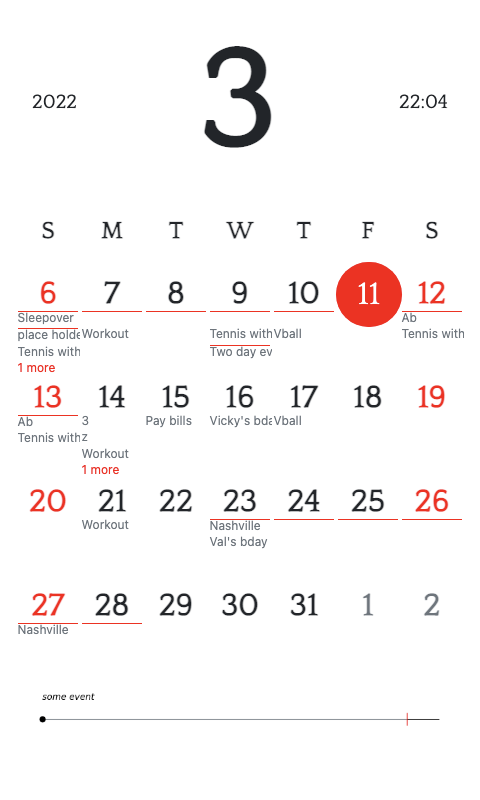
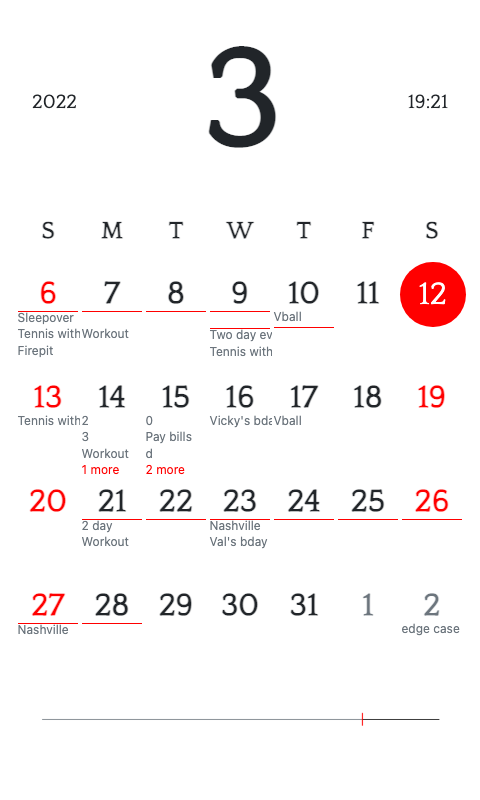
I think I implemented proper event stacking

diff --git a/render/calendar.html b/render/calendar.html
@@ -12,7 +12,7 @@
              style="display:flex;justify-content:space-between;">
             <div class="time-info">2022</div>
             <h3 class="month font-weight-bold mb-0 text-uppercase">3</h3>
-            <div class="time-info">22:04</div>
+            <div class="time-info">19:21</div>
         </div>
         <!-- Days of week -->
         <ol class="day-names list-unstyled text-center"><li class="font-weight-bold text-uppercase">S</li>
@@ -26,9 +26,9 @@
         <!-- Calendar and events -->
         <ol class="days list-unstyled"><li><div class="date" style="color:red;">6</div>
 <div class="event"><p class="multiday">Sleepover</p></div>
-<div class="event"><p class="multiday">place holder</p></div>
 <div class="event"> Tennis with Chloe</div>
-<div class="event" style="color:red;">1 more</li>
+<div class="event"> Firepit</div>
+</li>
 <li><div class="date">7</div>
 <div class="event text-hidden"><p class="multiday">Sleepover</p></div>
 <div class="event">Workout</div>
@@ -38,31 +38,30 @@
 </li>
 <li><div class="date">9</div>
 <div class="event text-hidden"><p class="multiday">Sleepover</p></div>
-<div class="event">Tennis with flake</div>
 <div class="event"><p class="multiday">Two day event</p></div>
+<div class="event">Tennis with flake</div>
 </li>
 <li><div class="date">10</div>
-<div class="event text-hidden"><p class="multiday">Two day event</p></div>
 <div class="event"> Vball</div>
+<div class="event text-hidden"><p class="multiday">Two day event</p></div>
 </li>
-<li><div class="datecircle">11</div>
+<li><div class="date">11</div>
 </li>
-<li><div class="date" style="color:red;">12</div>
-<div class="event"><p class="multiday">Ab</p></div>
-<div class="event"> Tennis with Harrison</div>
+<li><div class="datecircle">12</div>
 </li>
 <li><div class="date" style="color:red;">13</div>
-<div class="event"><p class="multiday">Ab</p></div>
 <div class="event"> Tennis with Isaac</div>
 </li>
 <li><div class="date">14</div>
+<div class="event">2</div>
 <div class="event">3</div>
-<div class="event">z</div>
 <div class="event">Workout</div>
 <div class="event" style="color:red;">1 more</li>
 <li><div class="date">15</div>
+<div class="event">0</div>
 <div class="event">Pay bills</div>
-</li>
+<div class="event">d</div>
+<div class="event" style="color:red;">2 more</li>
 <li><div class="date">16</div>
 <div class="event">Vicky's bday</div>
 </li>
@@ -76,9 +75,11 @@
 <li><div class="date" style="color:red;">20</div>
 </li>
 <li><div class="date">21</div>
+<div class="event"><p class="multiday">2 day</p></div>
 <div class="event">Workout</div>
 </li>
 <li><div class="date">22</div>
+<div class="event text-hidden"><p class="multiday">2 day</p></div>
 </li>
 <li><div class="date">23</div>
 <div class="event"><p class="multiday">Nashville</p></div>
@@ -108,6 +109,7 @@
 <li><div class="date text-muted">1</div>
 </li>
 <li><div class="date text-muted">2</div>
+<div class="event text-muted">edge case</div>
 </li>
 </ol>
         <div style="height:210px;margin-top:-5rem;position:absolute;">

diff --git a/utils/date_parse.py b/utils/date_parse.py
@@ -1,5 +1,4 @@
 import datetime
-import pytz
 
 
 def enumerate_multiday_event(event_list: list) -> list:
@@ -20,7 +19,9 @@ def enumerate_multiday_event(event_list: list) -> list:
                 "endDatetime": event["startDatetime"] + datetime.timedelta(1) - datetime.timedelta(microseconds=1),
                 "isMultiday": True,
                 "isUpdated": event["isUpdated"],
-                "allday": event["allday"]
+                "allday": event["allday"],
+                "duration": duration,
+                "main": True
             }
             enumerated_event_list.append(enumerated_event)
             for date in [event["startDatetime"] + datetime.timedelta(i) for i in range(1, duration.days)]:
@@ -31,7 +32,8 @@ def enumerate_multiday_event(event_list: list) -> list:
                     "isMultiday": True,
                     "isUpdated": event["isUpdated"],
                     "allday": event["allday"],
-                    "hide": True
+                    "hide": True,
+                    "duration": duration
                 }
                 last_date = date
                 enumerated_event_list.append(enumerated_event)
@@ -44,10 +46,12 @@ def enumerate_multiday_event(event_list: list) -> list:
                     "isMultiday": True,
                     "isUpdated": event["isUpdated"],
                     "allday": event["allday"],
-                    "hide": True
+                    "hide": True,
+                    "duration": duration
                 }
                 enumerated_event_list.append(enumerated_event)
         else:
+            event["duration"] = datetime.timedelta(0)
             enumerated_event_list.append(event)
 
     return enumerated_event_list

diff --git a/render/render.py b/render/render.py
@@ -17,6 +17,8 @@ from PIL import Image
 from selenium import webdriver
 from selenium.webdriver.chrome.options import Options
 from render.timeline import Timeline
+from operator import itemgetter
+from utils.block_list import BlockList
 
 
 class RenderHelper:
@@ -183,7 +185,27 @@ class RenderHelper:
                                    str(dayOfMonth) + '</div>\n'
 
             for j in range(min(len(calList[i]), maxEventsPerDay)):
+
+                calList[i] = sorted(calList[i], key=itemgetter("summary"))
+                calList[i] = sorted(calList[i], key=itemgetter("startDatetime"))
+                calList[i] = sorted(calList[i], key=itemgetter("allday", "duration"), reverse=True)
+
+                bl = BlockList(len(calList[i]))
+                event_summaries = [e["summary"] for e in calList[i - 1]]
+                for idx, event in enumerate(calList[i]):
+                    if event["summary"] in event_summaries and event["isMultiday"]:
+                        lane = event_summaries.index(event["summary"])
+                        bl.hold_index(lane, event)
+                        calList[i].pop(idx)
+
+                for e in calList[i]:
+                    bl.fill(e)
+
+                calList[i] = bl.to_list()
+
                 event = calList[i][j]
+
+
                 cal_events_text += '<div class="event'
                 if event['isUpdated']:
                     cal_events_text += ' text-danger'

diff --git a/maginkcal.py b/maginkcal.py
@@ -91,6 +91,7 @@ def main():
             displayTZ,
             thresholdHours)
         enumerated_event_list = enumerate_multiday_event(eventList)
+        # enumerated_event_list = eventList
         logger.info("Calendar events retrieved in " +
                     str(dt.datetime.now() - start))
 
